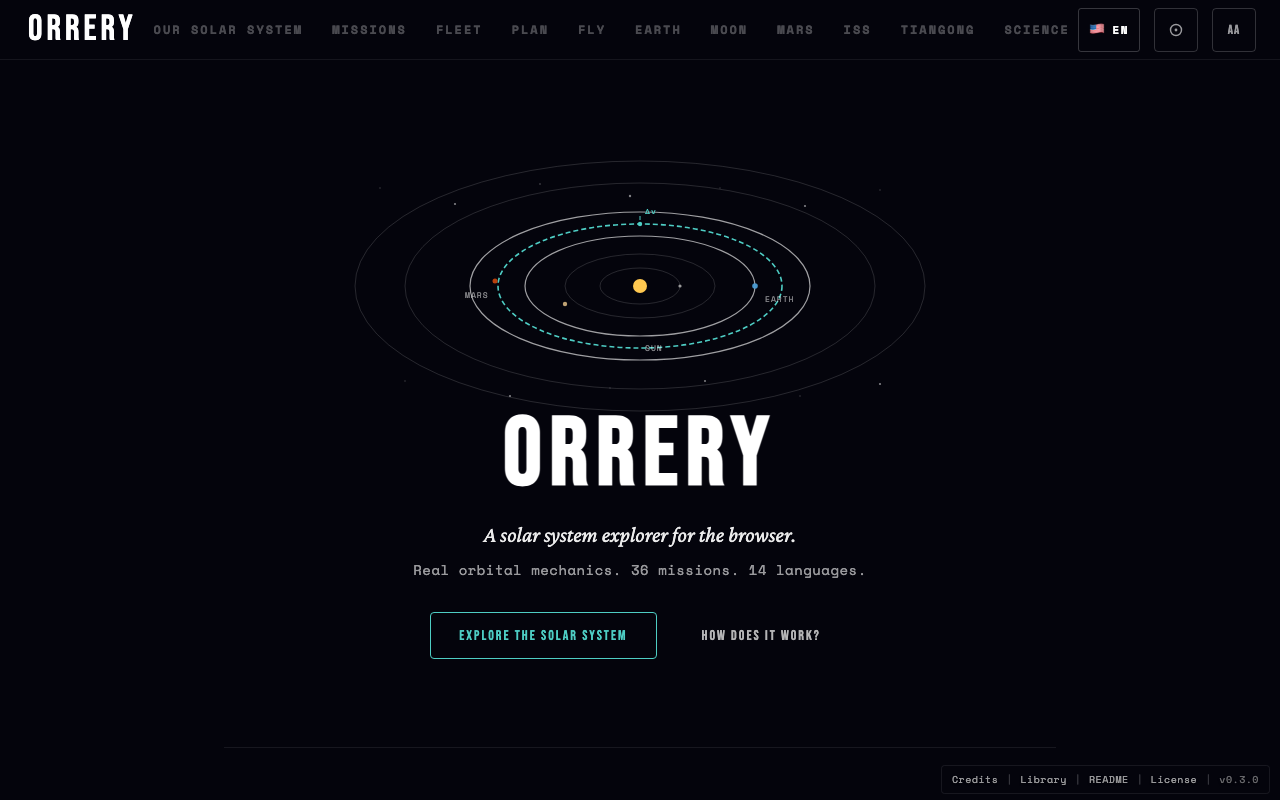
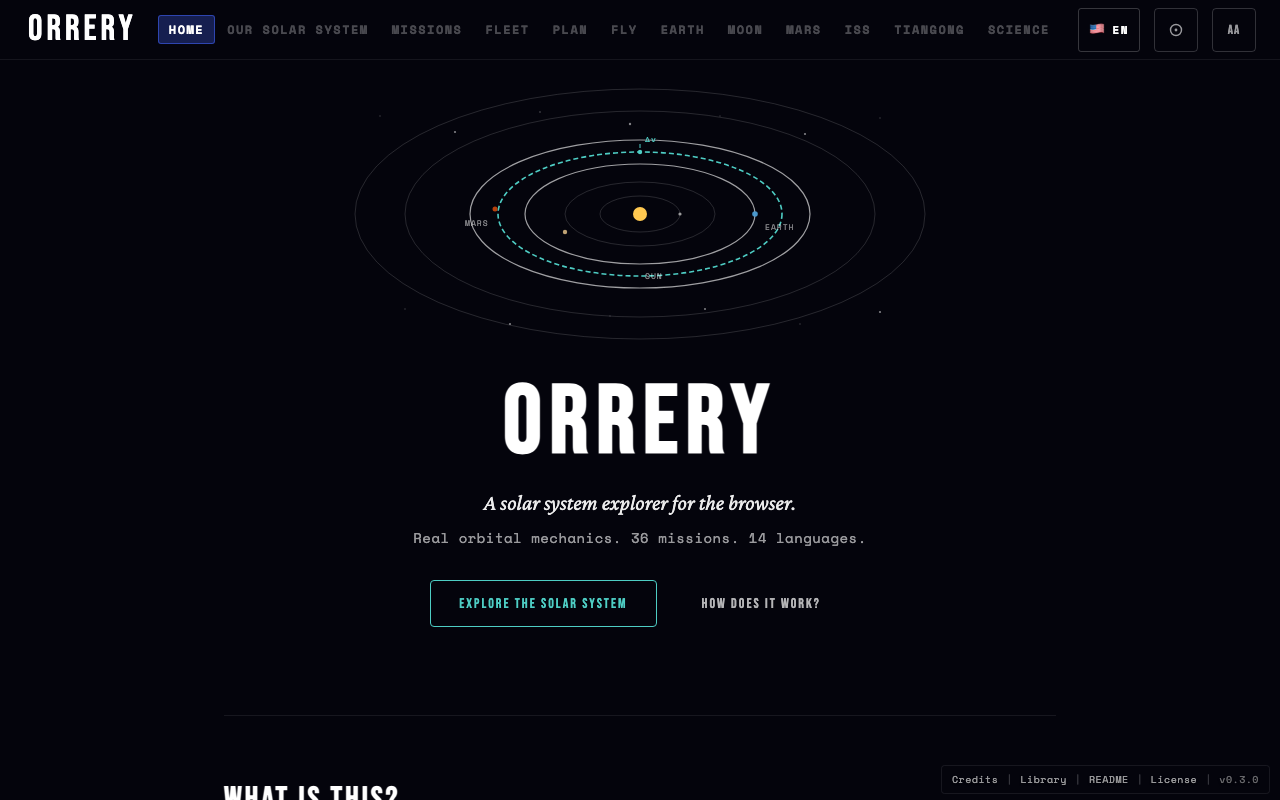
feat(nav): add HOME link as first nav item; tighten gap to fit all 12
User-feedback polish:

- New HOME link as the first item in the link row (between the logo
  and "OUR SOLAR SYSTEM"). Logo still goes to / as a backup, but
  the explicit HOME link removes the "nav gap" feel and is clearer
  for first-time visitors.
- nav_home key added to all 14 locales:
  HOME · INICIO · ACCUEIL · START · HOME · HOME · INÍCIO ·
  ホーム · 홈 · होम · الرئيسية · ГЛАВНАЯ · 首页 · ПОЧЕТНА
- Tightened nav link gap from 3 px → 1 px and per-link padding from
  12 px → 10 px, letter-spacing 2 px → 1.5 px so all 12 nav items
  fit at 1280 px without SCIENCE getting clipped (existing
  overflow-x:auto still handles narrower viewports).

Hero positioning: reduced .landing top padding from 96 px → 24 px
(16 px on mobile) so the illustration sits close to the nav, with
32 px breathing room added below the SVG before the wordmark.
Same intent on mobile (margin-bottom: 20 px, padding-top 16 px).

E2e: all 10 landing tests still green. Screenshots regenerated.

diff --git a/src/routes/+page.svelte b/src/routes/+page.svelte
@@ -538,7 +538,10 @@
   .landing {
     max-width: 880px;
     margin: 0 auto;
-    padding: 96px 24px 48px;
+    /* Reduced top padding so the hero illustration sits close to the
+       nav bar; breathing room added below the illustration via the
+       svg's bottom margin so the wordmark doesn't crowd it. */
+    padding: 24px 24px 48px;
     color: var(--color-text);
   }
 
@@ -551,7 +554,7 @@
     width: 100%;
     max-width: 600px;
     height: auto;
-    margin: 0 auto -8px;
+    margin: 0 auto 32px;
   }
   .wordmark {
     font-family: var(--font-display);
@@ -753,7 +756,7 @@
   /* ─── Mobile ───────────────────────────────────────────────── */
   @media (max-width: 767px) {
     .landing {
-      padding: 48px 16px 32px;
+      padding: 16px 16px 32px;
     }
     .wordmark {
       font-size: 48px;
@@ -761,7 +764,7 @@
     }
     .hero-illustration {
       max-width: 100%;
-      margin-bottom: 4px;
+      margin-bottom: 20px;
     }
     .tagline {
       font-size: 18px;

diff --git a/src/lib/components/Nav.svelte b/src/lib/components/Nav.svelte
@@ -13,6 +13,7 @@
   let { right }: Props = $props();
 
   const linkDefs = [
+    { path: '/', label: m.nav_home },
     { path: '/explore', label: m.nav_explore },
     { path: '/missions', label: m.nav_missions },
     { path: '/fleet', label: m.nav_fleet },
@@ -202,7 +203,7 @@
 
   .center {
     display: flex;
-    gap: 3px;
+    gap: 1px;
     align-items: center;
     overflow-x: auto;
     scrollbar-width: none;
@@ -213,9 +214,9 @@
   }
 
   .link {
-    padding: 5px 12px;
+    padding: 5px 10px;
     font-size: var(--size-link);
-    letter-spacing: 2px;
+    letter-spacing: 1.5px;
     font-weight: 700;
     color: rgba(255, 255, 255, 0.28);
     text-decoration: none;
